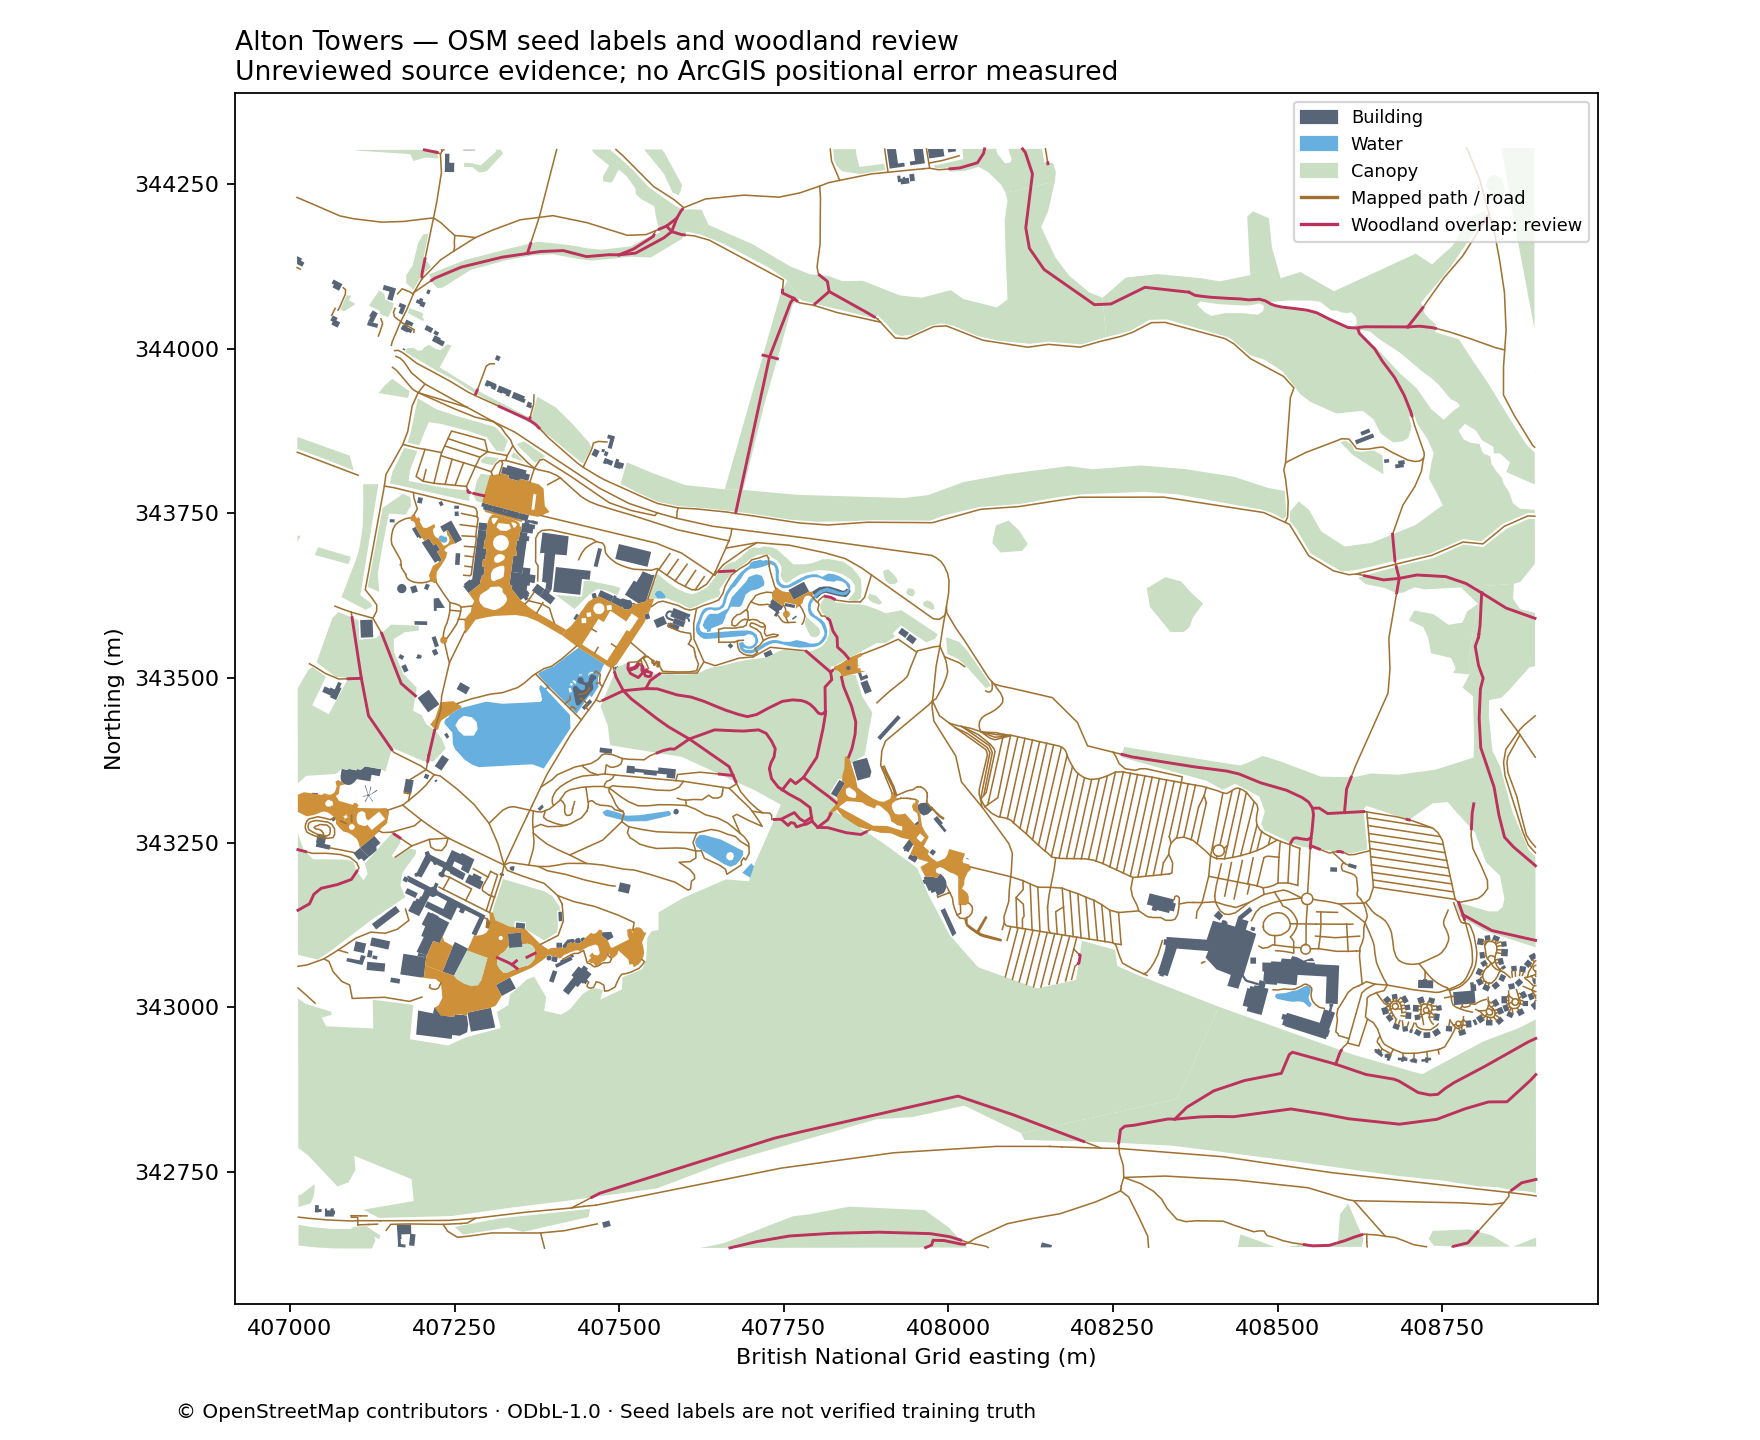
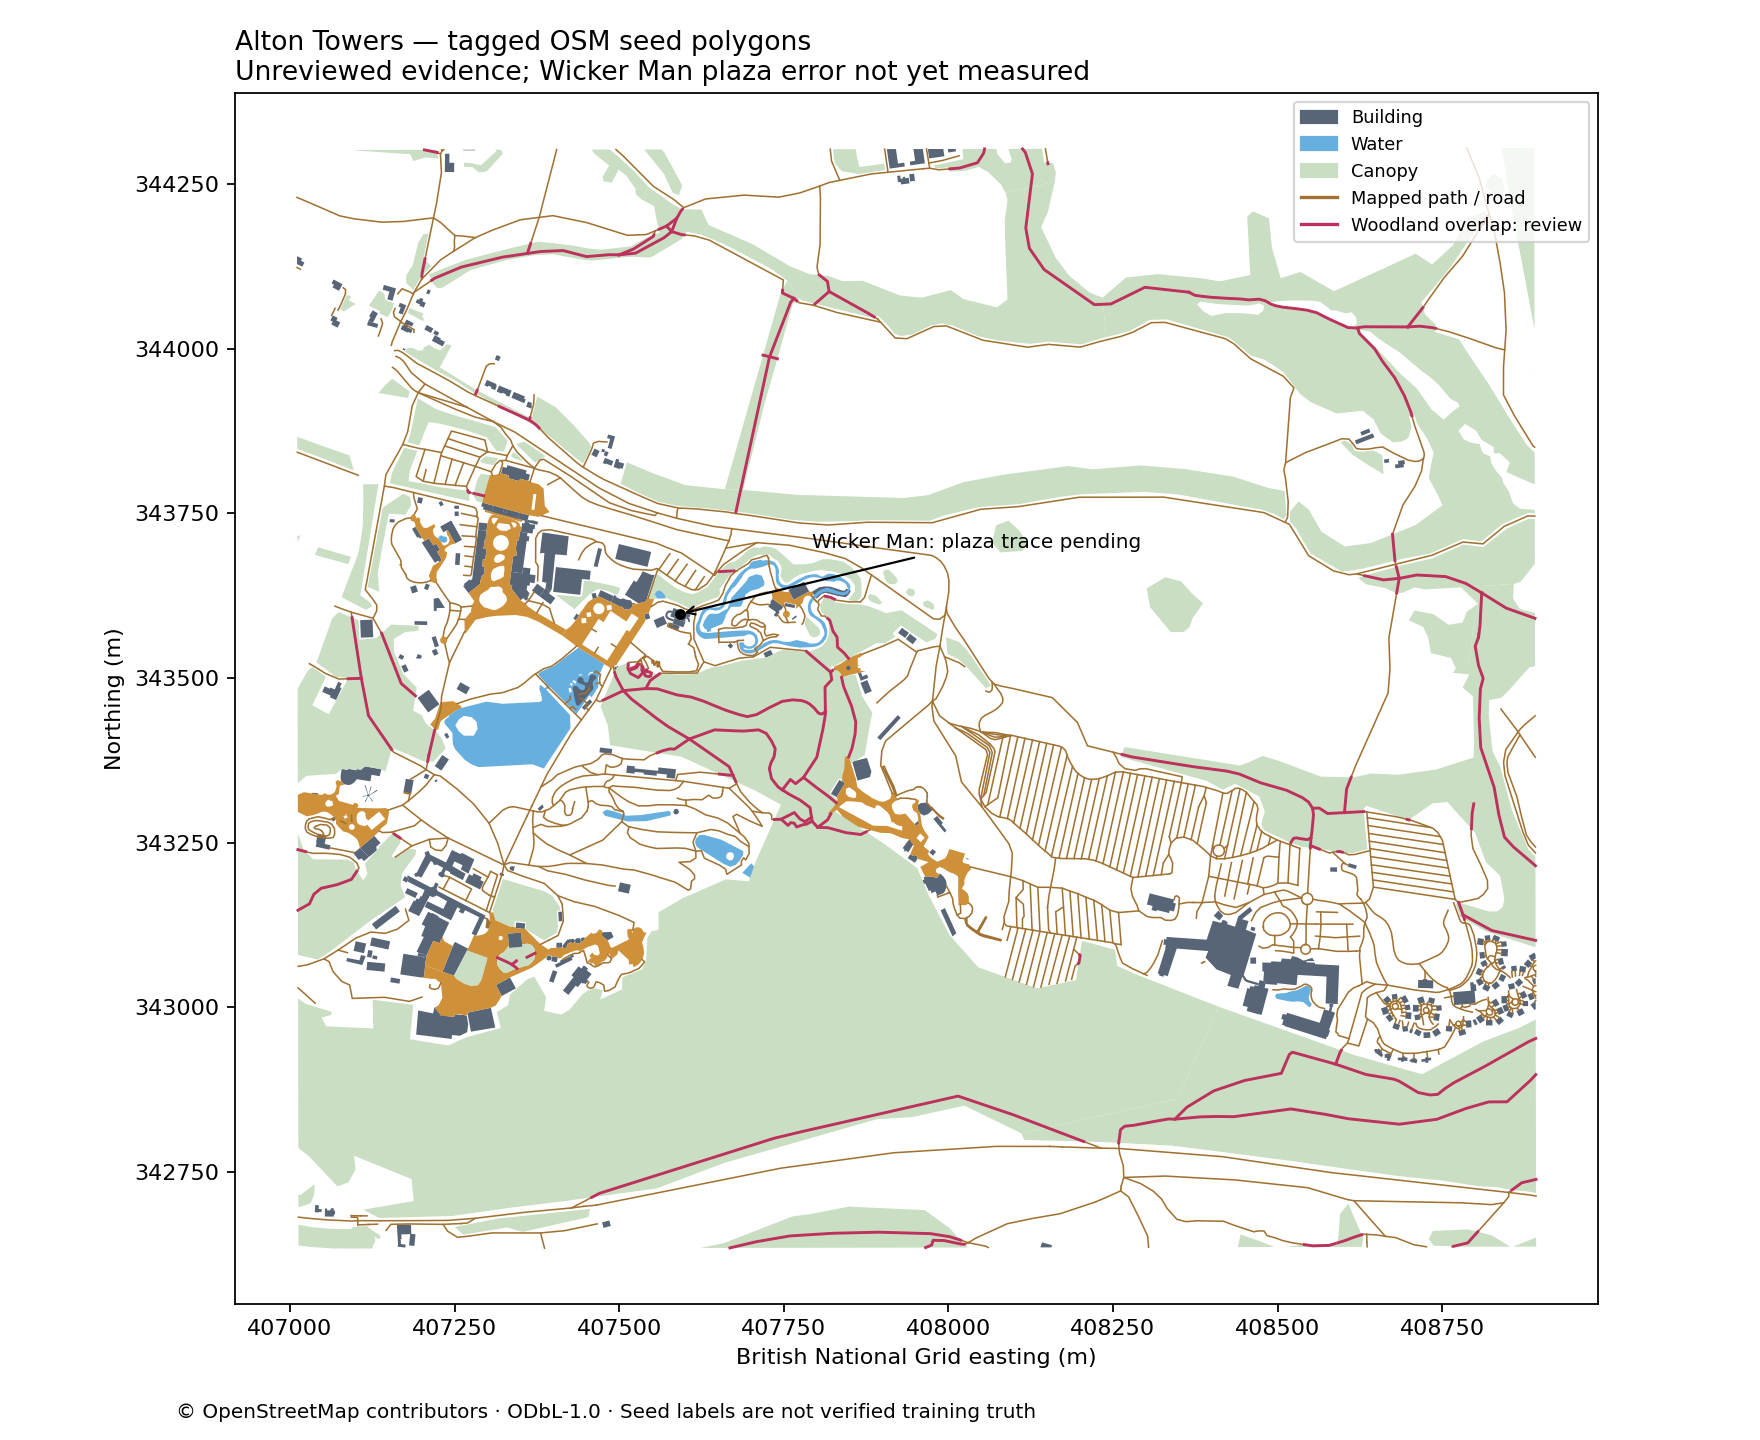
Compare tagged polygon coverage against reviewed imagery traces

Changed region(s): [[0.2188, 0.0, 0.625, 0.0625], [0.4688, 0.375, 0.5312, 0.4062]]

diff --git a/scripts/training/polygon_compare.py b/scripts/training/polygon_compare.py
@@ -1,0 +1,81 @@
+"""Compare tagged OSM polygon coverage with reviewed imagery-traced polygons."""
+import argparse
+import json
+from pathlib import Path
+
+from shapely.geometry import shape
+from shapely.ops import transform, unary_union
+from alton_dataset import AOI, PROJECT, collection, feature, write
+
+CLASSES = ('path', 'building', 'water', 'canopy')
+
+
+def polygons(data, label):
+    output = []
+    for f in data['features']:
+        g = shape(f['geometry'])
+        if g.geom_type not in ('Polygon', 'MultiPolygon') or not g.is_valid:
+            raise ValueError(f'{label}: valid Polygon/MultiPolygon geometry required')
+        output.append((transform(PROJECT, g), f.get('properties', {})))
+    return output
+
+
+def compare_polygons(osm, reference, coverage, ignore=None):
+    """Coverage defines exhaustively reviewed classes/areas, never the whole park by default."""
+    mapped = polygons(osm, 'OSM')
+    truth = polygons(reference, 'reference')
+    regions = polygons(coverage, 'coverage')
+    ignored = unary_union([g for g, _ in polygons(ignore or collection([]), 'ignore')])
+    for _, p in truth:
+        if p.get('class') not in CLASSES or p.get('review_status') != 'verified':
+            raise ValueError('Reference polygons need a supported class and review_status=verified')
+    if not regions:
+        raise ValueError('Explicit reviewed coverage is required; empty reference is not negative evidence')
+    for _, p in regions:
+        classes = p.get('reviewed_classes')
+        if p.get('review_status') != 'verified' or not isinstance(classes, list) or not classes or any(c not in CLASSES for c in classes):
+            raise ValueError('Coverage needs review_status=verified and supported reviewed_classes')
+    metrics, errors = {}, []
+    for cls in CLASSES:
+        region = unary_union([g for g, p in regions if cls in p['reviewed_classes']]).intersection(AOI).difference(ignored)
+        if region.is_empty or region.area == 0:
+            continue
+        a = unary_union([g for g, p in mapped if p.get('class') == cls]).intersection(region)
+        b = unary_union([g for g, p in truth if p['class'] == cls]).intersection(region)
+        match, missing, extra = a.intersection(b), b.difference(a), a.difference(b)
+        union_area = a.union(b).area
+        metrics[cls] = {
+            'evaluated_area_m2': region.area, 'osm_area_m2': a.area, 'reference_area_m2': b.area,
+            'matched_area_m2': match.area, 'omitted_area_m2': missing.area, 'extra_area_m2': extra.area,
+            'omission_rate': missing.area / b.area if b.area else None,
+            'commission_rate': extra.area / a.area if a.area else None,
+            'iou': match.area / union_area if union_area else None,
+            'precision': match.area / a.area if a.area else None,
+            'recall': match.area / b.area if b.area else None,
+        }
+        for kind, geom in [('omission', missing), ('extra_or_misclassified', extra)]:
+            if geom.area:
+                errors.append(feature(geom, {'class': cls, 'error_type': kind, 'area_m2': geom.area, 'review_status': 'needs_manual_review'}))
+    if not metrics:
+        raise ValueError('No reviewed area remains inside park after exclusions')
+    return {'crs': 'EPSG:27700', 'meaning': 'OSM polygon disagreement against reviewed imagery labels; not survey accuracy', 'classes': metrics}, collection(errors)
+
+
+def main():
+    p = argparse.ArgumentParser(description=__doc__)
+    p.add_argument('--osm', type=Path, default=Path('training/alton-towers/osm-seed-polygons.geojson'))
+    p.add_argument('--reference', type=Path, required=True)
+    p.add_argument('--coverage', type=Path, required=True, help='Exhaustively reviewed regions with reviewed_classes')
+    p.add_argument('--ignore', type=Path, help='Occluded or uncertain areas excluded from scoring')
+    p.add_argument('--out', type=Path, default=Path('training/alton-towers/polygon-comparison'))
+    args = p.parse_args()
+    read = lambda path: json.loads(path.read_text())
+    metrics, errors = compare_polygons(read(args.osm), read(args.reference), read(args.coverage), read(args.ignore) if args.ignore else None)
+    args.out.mkdir(parents=True, exist_ok=True)
+    write(args.out / 'polygon-metrics.json', metrics)
+    write(args.out / 'polygon-errors.geojson', errors)
+    print(json.dumps(metrics, indent=2))
+
+
+if __name__ == '__main__':
+    main()

diff --git a/scripts/training/test_polygon_compare.py b/scripts/training/test_polygon_compare.py
@@ -1,0 +1,53 @@
+import unittest
+from shapely.geometry import box
+from alton_dataset import PROJECT, feature, collection, seeds
+from polygon_compare import compare_polygons
+
+
+class PolygonTests(unittest.TestCase):
+    def setUp(self):
+        self.x, self.y = PROJECT(-1.888344, 52.9896574)
+        self.square = box(self.x, self.y, self.x + 20, self.y + 20)
+        self.truth = collection([feature(self.square, {'class': 'path', 'review_status': 'verified'})])
+        self.coverage = collection([feature(self.square.buffer(10), {'review_status': 'verified', 'reviewed_classes': ['path']})])
+
+    def test_missing_plaza_counts_as_omission(self):
+        metrics, errors = compare_polygons(collection([]), self.truth, self.coverage)
+        m = metrics['classes']['path']
+        self.assertAlmostEqual(m['omitted_area_m2'], 400, places=3)
+        self.assertEqual(m['omission_rate'], 1)
+        self.assertEqual(m['iou'], 0)
+        self.assertEqual(errors['features'][0]['properties']['error_type'], 'omission')
+
+    def test_incorrect_boundary_measures_area(self):
+        osm = collection([feature(box(self.x, self.y, self.x + 10, self.y + 20), {'class': 'path'})])
+        metrics, _ = compare_polygons(osm, self.truth, self.coverage)
+        self.assertAlmostEqual(metrics['classes']['path']['iou'], .5, places=6)
+        self.assertAlmostEqual(metrics['classes']['path']['omitted_area_m2'], 200, places=3)
+
+    def test_occluded_area_excluded(self):
+        ignore = collection([feature(box(self.x + 10, self.y, self.x + 20, self.y + 20), {})])
+        osm = collection([feature(box(self.x, self.y, self.x + 10, self.y + 20), {'class': 'path'})])
+        metrics, _ = compare_polygons(osm, self.truth, self.coverage, ignore)
+        self.assertAlmostEqual(metrics['classes']['path']['omitted_area_m2'], 0, places=3)
+        self.assertAlmostEqual(metrics['classes']['path']['iou'], 1, places=6)
+
+    def test_empty_unreviewed_reference_cannot_score_park(self):
+        with self.assertRaises(ValueError):
+            compare_polygons(collection([]), collection([]), collection([]))
+
+    def test_tag_mismatch_is_not_accepted_as_match(self):
+        osm = collection([feature(self.square, {'class': 'building'})])
+        metrics, _ = compare_polygons(osm, self.truth, self.coverage)
+        self.assertEqual(metrics['classes']['path']['omission_rate'], 1)
+        self.assertNotIn('building', metrics['classes'])
+
+    def test_area_highway_classification(self):
+        f = feature(self.square, {'type': 'way', 'id': 1, 'tags': {'area:highway': 'pedestrian'}})
+        polys, lines = seeds(collection([f]))
+        self.assertEqual(polys['features'][0]['properties']['class'], 'path')
+        self.assertEqual(lines['features'], [])
+
+
+if __name__ == '__main__':
+    unittest.main()

diff --git a/scripts/training/alton_dataset.py b/scripts/training/alton_dataset.py
@@ -32,7 +32,7 @@ def feature(geom, properties):
 
 def fetch_osm(out):
     bbox = ','.join(map(str, BBOX))
-    query = f'[out:json][timeout:120];(nwr[highway]({bbox});nwr[building]({bbox});nwr[natural=water]({bbox});nwr[waterway]({bbox});nwr[landuse=forest]({bbox});nwr[natural=wood]({bbox}););out geom;'
+    query = f'[out:json][timeout:120];(nwr[highway]({bbox});nwr["area:highway"]({bbox});nwr[building]({bbox});nwr[natural=water]({bbox});nwr[waterway]({bbox});nwr[landuse=forest]({bbox});nwr[natural=wood]({bbox}););out geom;'
     errors = []
     for endpoint in ['https://overpass-api.de/api/interpreter', 'https://overpass.kumi.systems/api/interpreter']:
         try:
@@ -66,7 +66,7 @@ def seeds(raw):
     for f in data['features']:
         p = f['properties']
         tags = p.get('tags', {})
-        cls = 'building' if 'building' in tags else 'path' if tags.get('highway') in PATHS else 'water' if tags.get('natural') == 'water' or 'waterway' in tags else 'canopy' if tags.get('natural') == 'wood' or tags.get('landuse') == 'forest' else None
+        cls = 'building' if tags.get('building') not in (None, 'no') else 'path' if tags.get('highway') in PATHS or tags.get('area:highway') in PATHS else 'water' if tags.get('natural') == 'water' or 'waterway' in tags else 'canopy' if tags.get('natural') == 'wood' or tags.get('landuse') == 'forest' else None
         if not cls:
             continue
         g = shape(f['geometry'])

diff --git a/training/alton-towers/README.md b/training/alton-towers/README.md
@@ -11,11 +11,13 @@ It has no operational layers; its basemap contains World Imagery and World
 Transportation. The transportation service advertises `Map,Tilemap`, not query
 access to path centerlines, and its metadata says it is no longer updated.
 See `arcgis-reference-assessment.json` and the saved webmap/service metadata.
-No street tiles were downloaded or processed. Numeric OSM–ArcGIS positional
+No street tiles were downloaded or processed. Numeric centerline positional
 error remains unmeasured because this map supplies no queryable path reference.
+Polygon coverage error can instead be measured against reviewed manual traces
+of visible boundaries in the ArcGIS imagery; it does not require a FeatureServer.
 
 The OSM API snapshot contains 649 clipped path/road centerline features and
-349 seed polygons: 266 buildings, 14 path areas, 12 water areas and 57 woodland
+348 seed polygons: 265 buildings, 14 path areas, 12 water areas and 57 woodland
 areas. These are source features, not counts of distinct real-world objects.
 `woodland-path-review.geojson` flags 81 path features with woodland overlap
 (about 9.09 km summed overlap; source overlaps may double-count segments).
@@ -97,3 +99,52 @@ for distributed derived databases.
 
 `dataset-status.json` deliberately reports `training_ready: false`: seed extraction
 and source comparison do not constitute manual annotation or model training.
+
+## Polygon error: Wicker Man plaza
+
+`wicker-man-review.geojson` records the user's report that the plaza is visible
+in imagery but missing or incorrectly outlined in OSM. Its point is the OSM
+Wicker Man attraction location for navigation, not a measured plaza boundary.
+No actual Wicker Man error number is claimed until the plaza has been traced.
+
+Use OSM tags to select comparable classes: `building=*` excluding `no` for
+buildings, `highway=pedestrian/footway/path/...` and `area:highway=*` for path
+areas, water tags for water and woodland tags for canopy context. Original tags
+are retained for finer distinctions such as plazas, queues, stairs, surface and
+access. A line through a plaza does not count as a correctly mapped area; never
+invent a width by buffering it to improve the score. Do not assume all hardscape
+is a guest plaza, or match a building to a path solely because they overlap.
+
+Trace the visible plaza boundary into `manual-polygons.geojson` with `class=path`
+and `review_status=verified` after review. Record imagery provider/date,
+reviewer and evidence. Also create `reviewed-coverage.geojson` polygons with
+`review_status=verified` and `reviewed_classes=["path"]` covering areas where
+**all path areas** have been checked. This coverage must be defined explicitly;
+the rest of the park is unreviewed, not background. Put uncertain/tree-hidden
+areas in an optional `ignore.geojson` polygon layer.
+
+```sh
+python scripts/training/polygon_compare.py \
+  --reference training/alton-towers/manual-polygons.geojson \
+  --coverage /path/to/reviewed-coverage.geojson \
+  --ignore /path/to/ignore.geojson
+```
+
+Omit `--ignore` only when there are no uncertain areas inside reviewed coverage.
+The command outputs per-class metrics and error polygons in British National
+Grid square metres:
+
+- Omission = reference area absent from the OSM polygon union.
+- Extra area = OSM area outside the reference within reviewed coverage.
+- Omission rate = omitted area / reference area.
+- Commission rate = extra area / OSM area.
+- IoU = intersection area / union area; precision and recall are also reported.
+
+For a wholly missing plaza, omission is 100% and IoU is 0. An OSM polygon covering
+half a plaza with no excess has 50% omission and IoU 0.5. These are illustrative
+cases, not measurements of Wicker Man. Zero-denominator metrics are null, not
+perfect scores. Polygons are unioned per class to prevent double-counting;
+occluded areas are excluded before scoring. Misclassification appears as an
+omission in the true class and extra area in the wrong class when both classes
+have reviewed coverage. Image dates and alignment still affect results: these
+scores measure disagreement against reviewed traces, not absolute survey error.
